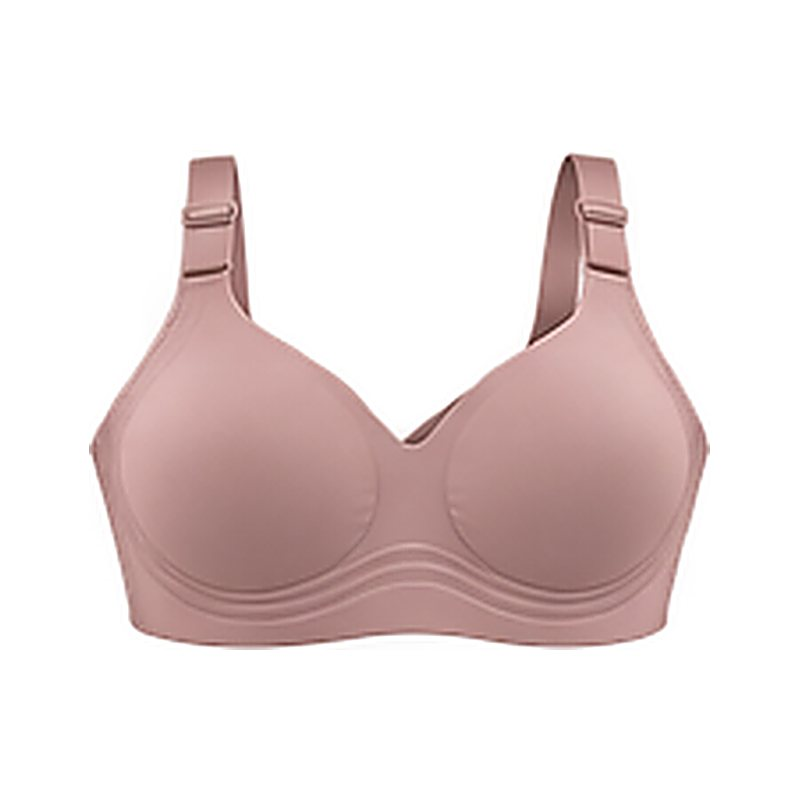
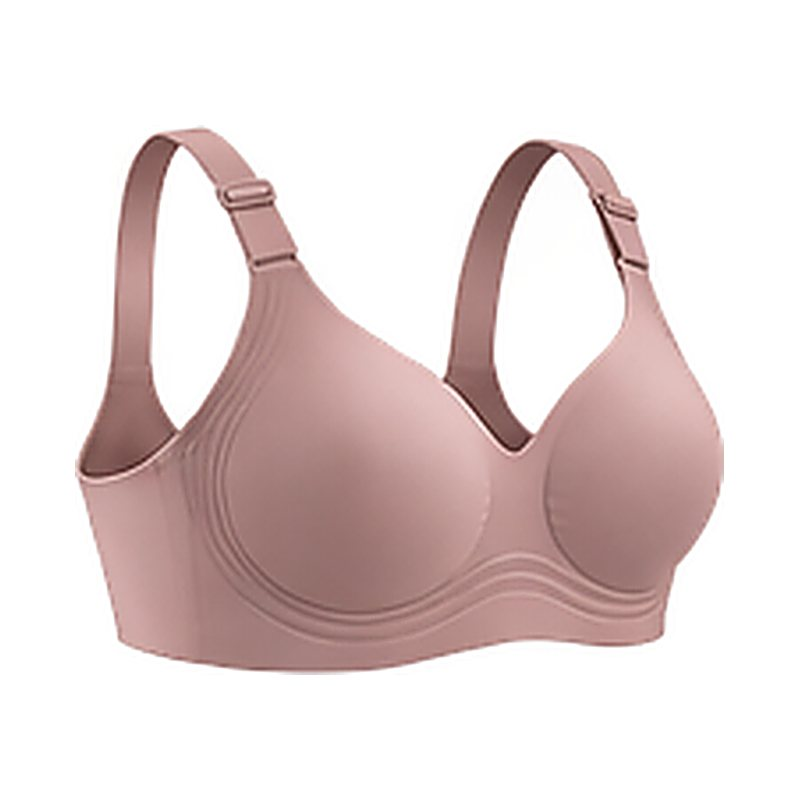
Build the turn from the real order and mirror the return leg
The sheet's captions do not match its rotation. Ordered by what the
frames actually show, eighteen of them turn cleanly from the front to the
back: 0 to 110, then 240, 250, 260, then 200, 190, 180. The rest never
reach the far side, which is why the far side was missing.

So the far side is now the near side mirrored. Past the back that is the
correct view rather than an approximation of one, since a bra is
symmetric about the closure. The return leg is those eighteen frames
mirrored and reversed, with the front and back left out of it so neither
appears twice: 34 frames in the cycle.

It behaves like one axis now. The largest width change between adjacent
frames, the wrap included, is down from 184px to 52px and the mean is
8px, so the two deep points are the quarter turns rather than jumps.
Checked on a phone: swipe turns it, the flick carries on, vertical
scrolling still works, no frame fails to load.

Changed region(s): [[0.0938, 0.1562, 0.9062, 0.8438], [0.1875, 0.6875, 0.2188, 0.7188]]

diff --git a/src/content/site.ts b/src/content/site.ts
@@ -721,8 +721,6 @@ export const bondedBrasPage = {
         "/img/bra-spin/31.jpg",
         "/img/bra-spin/32.jpg",
         "/img/bra-spin/33.jpg",
-        "/img/bra-spin/34.jpg",
-        "/img/bra-spin/35.jpg",
       ],
     },
   },
